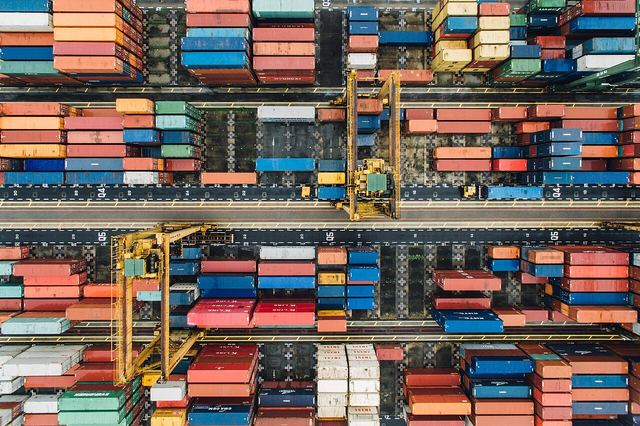
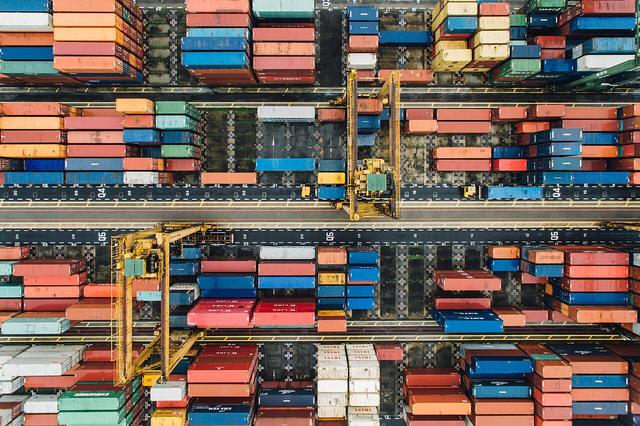
feat(website): carrusel de transporte, logística y seguimiento con imágenes CC0
- 5 imágenes de dominio público/CC0 de Wikimedia Commons (fuentes en
  public/img/carrusel/CREDITOS.md), optimizadas a 1280 y 640 px; se recortó
  el letrero de un comercio en la foto de reparto para no mostrar marcas
- Carrusel accesible y mobile first: scroll-snap nativo, flechas, teclado,
  pausa, avance automático solo cuando está a la vista y sin movimiento si
  el sistema lo pide; contador "2 / 5" en móvil e indicadores de 44 px desde 480 px
- QA en 10 resoluciones con pruebas del carrusel: 0 hallazgos

Claude-Session: https://claude.ai/code/session_011vp2xQSfFk4SdL6vuRdYih

diff --git a/website/lib/slides.ts b/website/lib/slides.ts
@@ -19,31 +19,25 @@ const ALL: Slide[] = [
     text: 'Unidades y operadores de G3 en rutas nacionales, con fecha de entrega comprometida.',
   },
   {
-    ...img('reparto', 1280, 853),
-    alt: 'Camión de reparto estacionado en una calle de la ciudad al amanecer',
-    title: 'Entregas a tiempo',
-    text: 'Coordinamos citas de carga y descarga con tu almacén, planta o cliente final.',
-  },
-  {
     ...img('puerto', 1280, 853),
     alt: 'Vista aérea de una terminal de contenedores con grúas y contenedores apilados',
     title: 'Conexión con puertos',
     text: 'Movemos tu carga desde y hacia los principales puertos del Pacífico.',
   },
   {
-    ...img('anden', 1280, 853),
-    alt: 'Tráiler acomodado en el andén de carga de un almacén',
-    title: 'Carga y descarga coordinadas',
-    text: 'Ventanas de andén acordadas y evidencia fotográfica de cada maniobra.',
+    ...img('reparto', 860, 853),
+    alt: 'Camión de carga circulando por una calle de la ciudad al amanecer',
+    title: 'Entregas a tiempo',
+    text: 'Coordinamos citas de carga y descarga con tu almacén, planta o cliente final.',
   },
   {
     ...img('contenedores', 1280, 853),
-    alt: 'Filas de contenedores de colores en un patio portuario',
+    alt: 'Patio portuario con grúas y largas filas de contenedores',
     title: 'Logística a la medida',
     text: 'Diseñamos rutas, frecuencias y tipo de unidad a partir de tu operación.',
   },
   {
-    ...img('seguimiento', 1280, 853),
+    ...img('seguimiento', 1280, 912),
     alt: 'Computadora portátil mostrando gráficas e indicadores',
     title: 'Seguimiento de cada etapa',
     text: 'Estatus, ubicación y evidencias de tu viaje de la recolección a la entrega.',

diff --git a/website/app/globals.css b/website/app/globals.css
@@ -768,8 +768,9 @@ header.site.site--hidden { transform: translateY(-100%); }
 .carousel__btn:hover, .carousel__btn:focus-visible { background: var(--niebla); }
 .carousel__btn svg { width: 20px; height: 20px; }
 .carousel__dots { display: flex; align-items: center; }
+.carousel__count { display: none; min-width: 64px; text-align: center; font-weight: 500; color: var(--g3-azul); font-variant-numeric: tabular-nums; }
 .carousel__dot {
-  width: 28px; height: 44px; padding: 0; border: 0; background: none; cursor: pointer;
+  width: 44px; height: 44px; padding: 0; border: 0; background: none; cursor: pointer;
   display: inline-grid; place-items: center;
 }
 .carousel__dot::before {
@@ -782,6 +783,11 @@ header.site.site--hidden { transform: translateY(-100%); }
 .carousel--paused .carousel__icon-pause { display: none; }
 /* Sin JS los controles no hacen nada: solo se muestran cuando el script los activa */
 .carousel:not(.carousel--js) .carousel__controls { display: none; }
+/* Móvil: contador "2 / 5" en lugar de puntos (no caben con área táctil de 44px) */
+@media (max-width: 479px) {
+  .carousel__dots { display: none; }
+  .carousel__count { display: inline-block; }
+}
 
 @media (min-width: 480px) {
   .carousel__slide { aspect-ratio: 4 / 3; }

diff --git a/website/components/Carousel.tsx b/website/components/Carousel.tsx
@@ -33,7 +33,7 @@ export function Carousel({ slides, label }: { slides: Slide[]; label: string }) 
           >
             <img
               src={s.src}
-              srcSet={`${s.srcSmall} 640w, ${s.src} 1280w`}
+              srcSet={`${s.srcSmall} 640w, ${s.src} ${s.width}w`}
               sizes="(min-width: 1180px) 1116px, 100vw"
               width={s.width}
               height={s.height}
@@ -53,6 +53,9 @@ export function Carousel({ slides, label }: { slides: Slide[]; label: string }) 
         <button type="button" className="carousel__btn" data-carousel-prev aria-label="Imagen anterior">
           <Chevron dir="prev" />
         </button>
+        <span className="carousel__count" aria-hidden="true">
+          <span data-carousel-count>1</span> / {slides.length}
+        </span>
         <div className="carousel__dots">
           {slides.map((s, i) => (
             <button

diff --git a/website/components/Enhance.tsx b/website/components/Enhance.tsx
@@ -101,6 +101,8 @@ const SCRIPT = `
   }
   function mark(c) {
     var i = current(c);
+    var cnt = c.querySelector('[data-carousel-count]');
+    if (cnt) cnt.textContent = String(i + 1);
     Array.prototype.forEach.call(c.querySelectorAll('[data-carousel-dot]'), function (d, k) {
       if (k === i) d.setAttribute('aria-current', 'true'); else d.removeAttribute('aria-current');
     });

diff --git a/website/public/img/carrusel/CREDITOS.md b/website/public/img/carrusel/CREDITOS.md
@@ -3,5 +3,8 @@
 Todas las imágenes son de dominio público o CC0 (sin derechos reservados),
 obtenidas de Wikimedia Commons. No requieren atribución; se listan como respaldo.
 
-- `seguimiento.jpg` — Statistics on a laptop (Unsplash).jpg · CC0 · https://commons.wikimedia.org/wiki/File:Statistics_on_a_laptop_(Unsplash).jpg
+- `carretera.jpg` — Sky Route (Unsplash).jpg · CC0 · https://commons.wikimedia.org/wiki/File:Sky_Route_(Unsplash).jpg
+- `reparto.jpg` — Delivery truck at sunrise (Unsplash).jpg (recortada) · CC0 · https://commons.wikimedia.org/wiki/File:Delivery_truck_at_sunrise_(Unsplash).jpg
 - `puerto.jpg` — Container terminal from above (Unsplash).jpg · CC0 · https://commons.wikimedia.org/wiki/File:Container_terminal_from_above_(Unsplash).jpg
+- `contenedores.jpg` — Large cargo port (Unsplash).jpg · CC0 · https://commons.wikimedia.org/wiki/File:Large_cargo_port_(Unsplash).jpg
+- `seguimiento.jpg` — Statistics on a laptop (Unsplash).jpg · CC0 · https://commons.wikimedia.org/wiki/File:Statistics_on_a_laptop_(Unsplash).jpg
